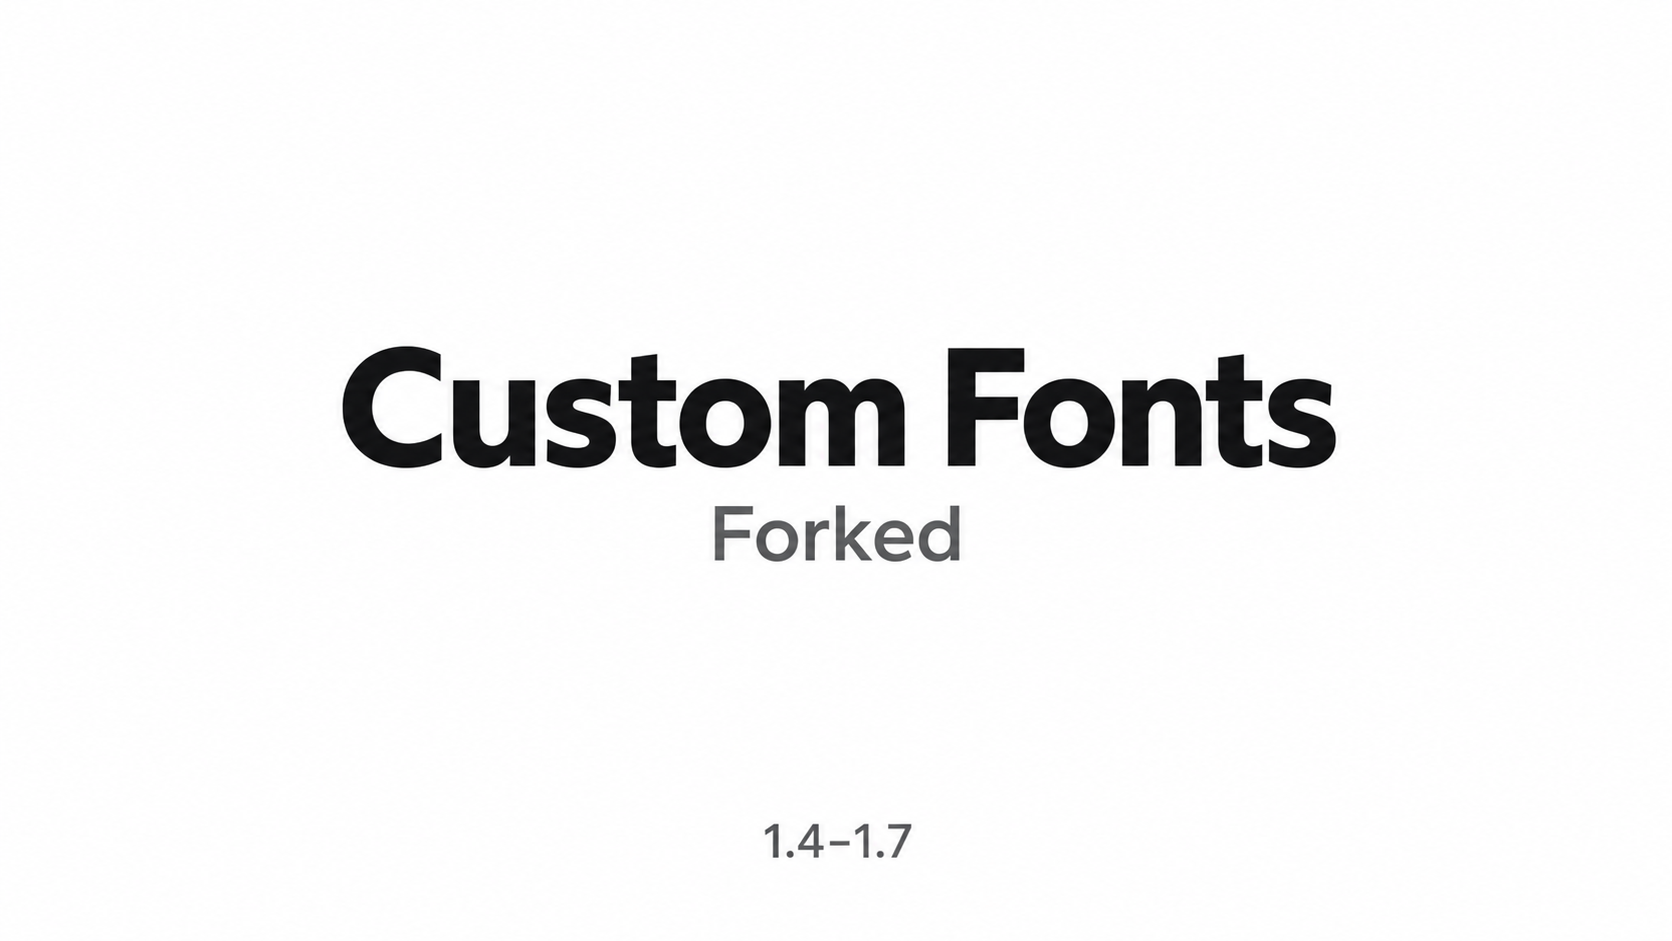
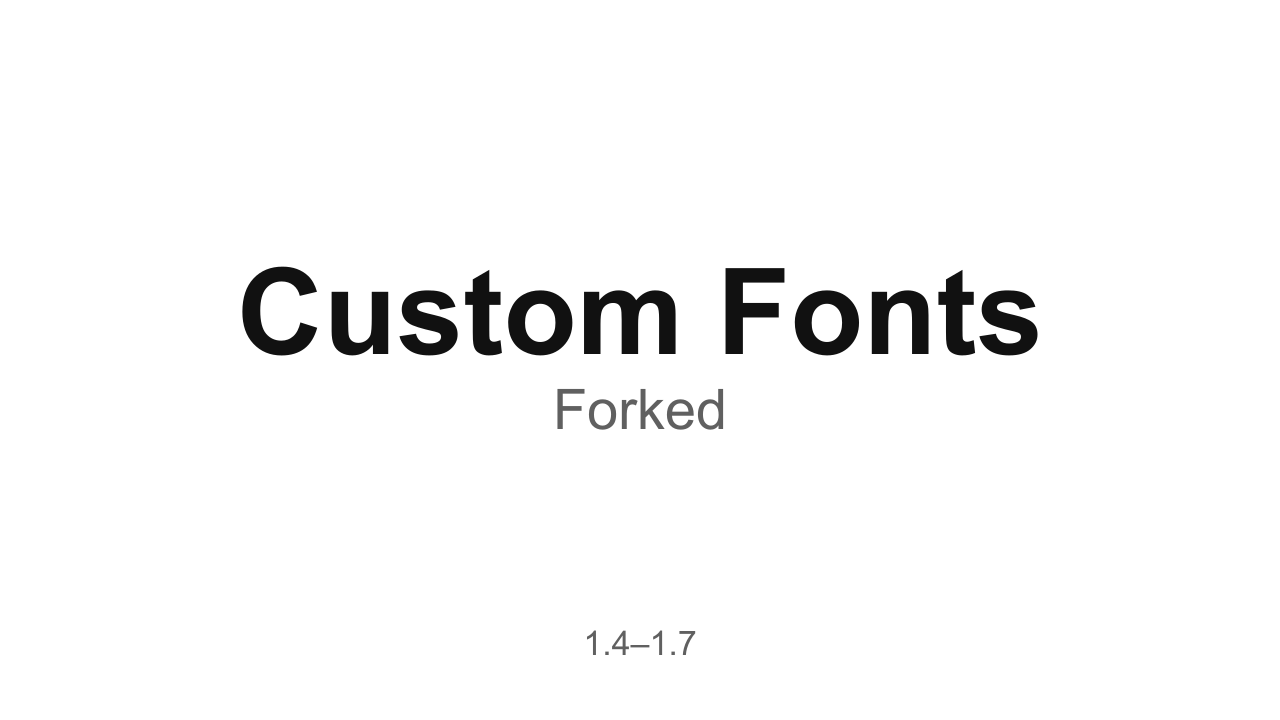
build: render workshop preview PNG from SVG

Changed region(s): [[0.1875, 0.3667, 0.8125, 0.6111], [0.4688, 0.8861, 0.5625, 0.9167]]

diff --git a/README.md b/README.md
@@ -29,6 +29,12 @@ Set `DOTNET` in `.env` or on the task command line to select a particular SDK ex
 The 1.7 build references Harmony's `1.7/Assemblies/0Harmony.dll`; 1.6 uses its `1.6`
 folder, with a fallback to `Current` for older Harmony downloads.
 
+Edit `About/preview.svg` for the white Workshop preview, then run `task preview` to
+render `About/preview.png` at 1280×720. This requires librsvg's `rsvg-convert`;
+set `RSVG_CONVERT` to use an executable outside `PATH`. Export and package also run
+this task. Commit the SVG and generated PNG before release. Text uses Arial with
+Helvetica and sans-serif fallbacks.
+
 ## Local deployment and Steam Workshop upload
 
 Run the deployment tasks in this order from the repository root:
